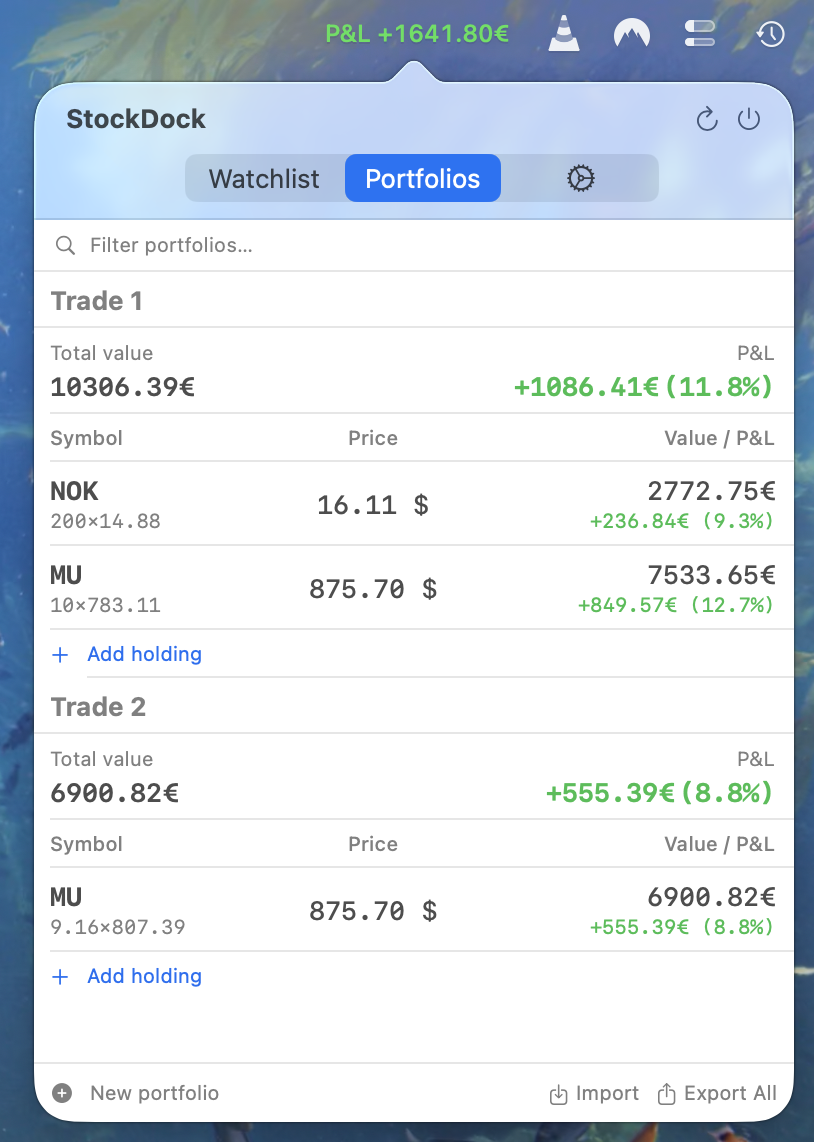
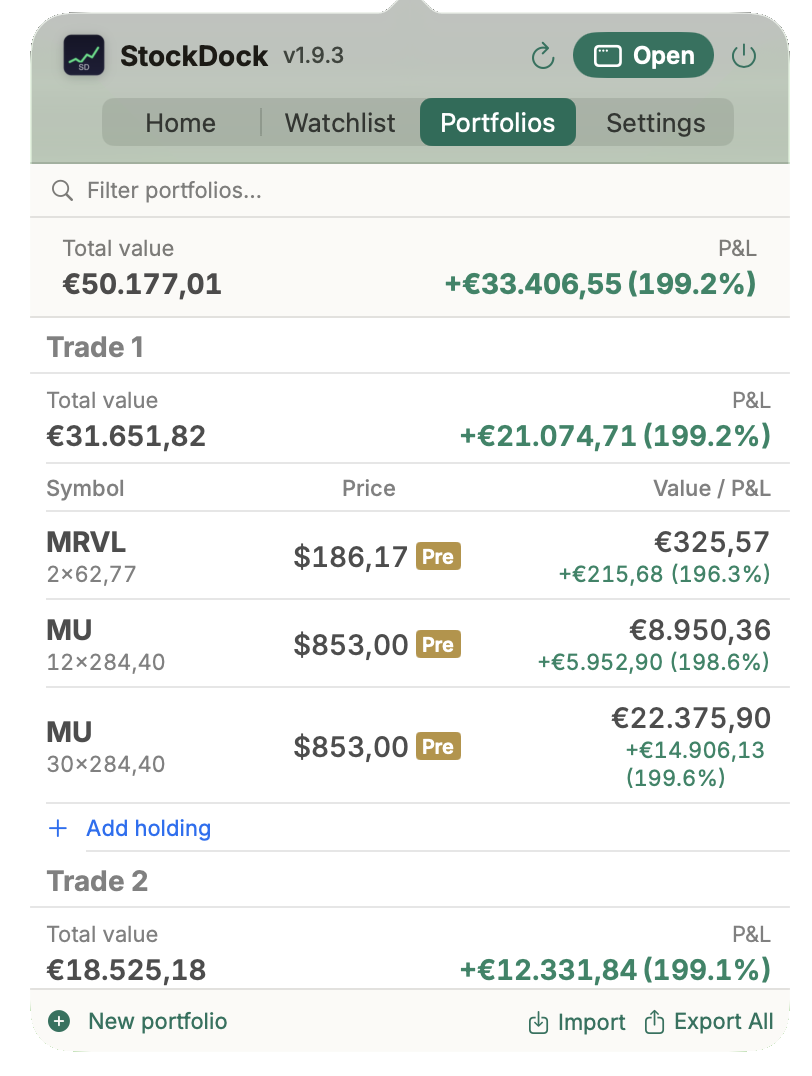
README: animated popover demo GIF + refreshed watchlist/portfolio/settings screenshots (1.9.3 UI)

diff --git a/README.md b/README.md
@@ -60,11 +60,19 @@ Stocks, ETFs, indices (S&P 500, NASDAQ…), crypto, and forex — anything with 
 
 ![Desktop window](screenshots/desktop.png)
 
-### Menu bar popover
+### In the menu bar
 
-| Menu Bar | Watchlist | Portfolios | Settings |
-|---|---|---|---|
-| ![Menu Bar](screenshots/menubar.png) | ![Watchlist](screenshots/watchlist.png) | ![Portfolios](screenshots/portfolio.png) | ![Settings](screenshots/settings.png) |
+![Menu Bar](screenshots/menubar.png)
+
+### The popover — watchlist, portfolios & settings
+
+<div align="center">
+<img src="screenshots/demo.gif" alt="StockDock menu bar popover cycling through the watchlist, portfolio P&L and settings" width="440">
+</div>
+
+| Watchlist | Portfolios | Settings |
+|---|---|---|
+| ![Watchlist](screenshots/watchlist.png) | ![Portfolios](screenshots/portfolio.png) | ![Settings](screenshots/settings.png) |
 
 ## Features
 
